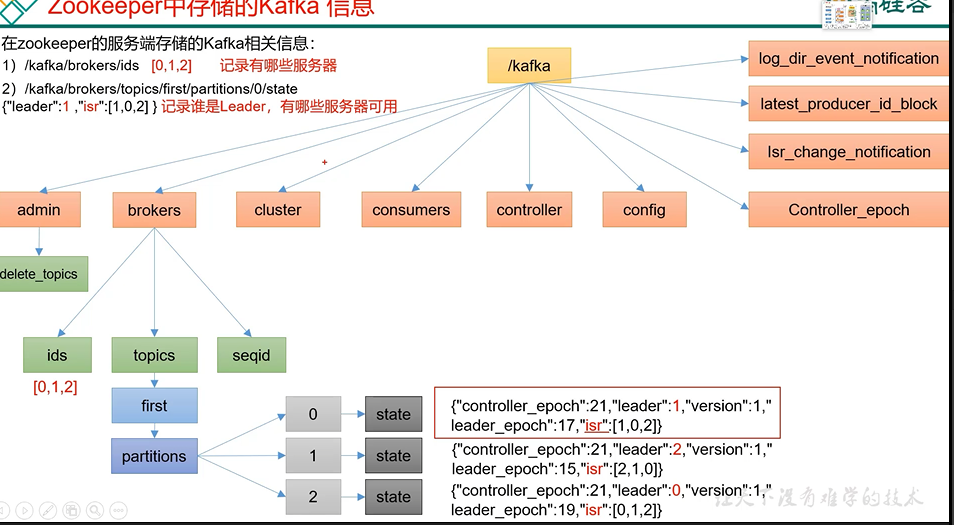
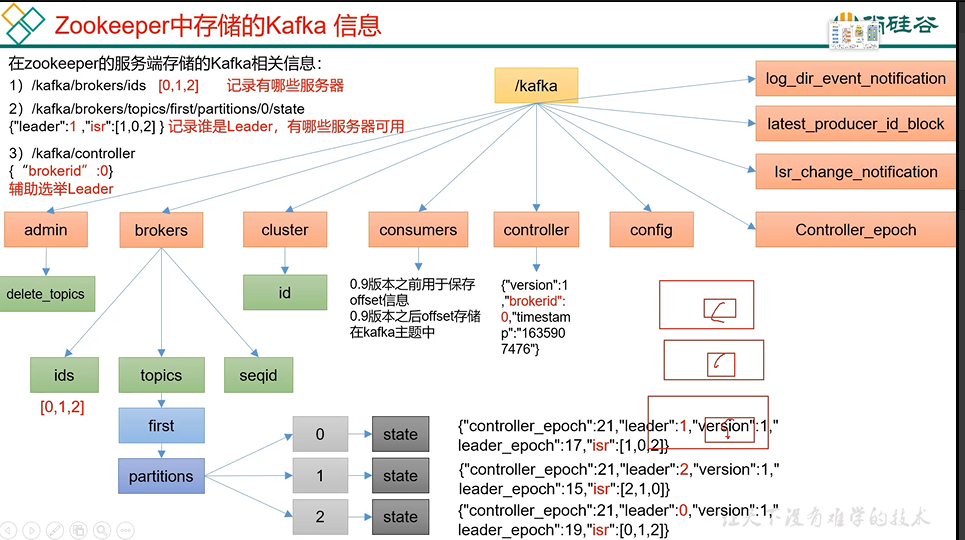
commit

diff --git a/Kafka/13.Broker工作流程.md b/Kafka/13.Broker工作流程.md
@@ -1,0 +1,31 @@
+1   在broker启动后在zookeeper注册 加入/brokers/ids
+
+2   broker竞争，在zookeeper中成为controller
+
+3   成为controller的broker会监听zookeeper的中的ids（ids是所有的正常运行的brokerId）变化
+
+4   成为controller的broker决定leader选举
+
+    在isr中存活为前提，安装AR中排名的属性
+
+    比如ar[1,0,2],isr[1,0,2] leader就按照1，0，2进行轮询
+
+5   选举出leader信息 leader:1, isr:1,0,2  上次给zookeeper
+
+6   其他controller从zookeeper同步备份leader信息
+
+7   假如leader挂了
+
+8   由选举出来的controller来监听brokers节点变化
+
+9， 从zookeeper中拉取ar和isr
+
+
+10  选举新的leader
+
+    在isr中存活为前提，安装AR中排名的属性
+
+    比如ar[1,0,2],isr[1,0,2] leader就按照1，0，2进行轮询
+
+
+![img_42.png](img_42.png)

diff --git a/Kafka/12.zookeeper存储kafka相关信息.md b/Kafka/12.zookeeper存储kafka相关信息.md
@@ -1,0 +1,13 @@
+![img_40.png](img_40.png)
+
+zookeeper保存有哪些broker
+
+记录着topic partition谁是leader 谁是follower(isr)
+
+
+0.9版本之后,offset信息放在Kafka的topic中，之前是存放在zookeeper
+
+
+辅助leader选举
+
+![img_41.png](img_41.png)
